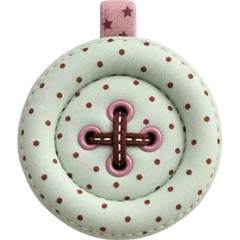
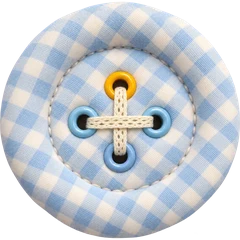
전시 보드 기타 단추: 민트 물방울 원 → 하늘색 깅엄 둥근 단추

diff --git a/CLAUDE.md b/CLAUDE.md
@@ -141,7 +141,7 @@ interviews   인터뷰    id, source(form|shop), answers(json), summary_md, stor
   - 인트로와의 순서(10-23): 인트로가 떠 있는 동안엔 뒤에서 아무것도 돌지 않는다. '인트로 다시 보기'는 전시 연출을 그 자리에서 멈추고(`stopKiosk`) 평소 지도로 되돌린다(ON/OFF 상태는 유지). 인트로가 끝나면 평소 지도 → 카메라 0.7s + 1s 뒤 전시 연출(`endIntro`). 늦게 도착하는 콜백(사이드바 접힘·커튼·지연 시작)은 차례 번호 `kioskSeq` 로 막는다.
   - 모양·톤·연출·png 자리는 시안 `MORE_exhibition_dynamic_v2.html` 그대로(사용자 결정, 낮/밤 구분 없음 — 바다 #7793b1 + 리넨, 섬 덩어리는 시안의 sine 블롭). **길만 실제 길**: 재단선 안의 `roads.json`(a·b 큰 길 = 굵은 띠 + 양 가장자리 홈질, c 골목 = 흰 띠만(10-23 점선 뺌), d 생략)을 재단선 상자 → 섬 덩어리 상자(0.92)로 균일 변환해 넣는다. 그린 뒤 정돈(10-23): `kiosk-board.json` 의 `hideRoads`(캔버스 단위 타원·다각형) 안 골목과 `hideMain` 안 큰 길은 빼고(잘린 큰 길 끝은 늘리지 않고, 그 자리에 붙은 60 미만 조각은 버린다), 맞닿은 토막은 한 줄로 이어 점선 박자를 맞추고, 막다른 큰 길은 섬 가장자리까지 늘려 실에 물려 끝나게, 길 홈질은 연하게(opacity .42/.38). 길 폭 큰 길 24·골목 11. 가게 단추도 실제 자리(재단선 밖 12단위까지 포함, 섬 밖이면 안쪽으로 밀어 넣음). 업종은 `stores.category`(없으면 기타) → 단추 무늬·범례 필터.
   - 좌표: 시안 캔버스 단위를 지도 좌표에 1:1 평행이동(캔버스 가운데 = 섬 가운데)으로 놓는다. `kiosk-board.json` 의 props·sky·waves·titleAt·chiefAt 는 전부 캔버스 단위.
-  - 켜진 동안 `html.kb-on`: 섬 위 원래 층(땅·길·장식·점·랜드마크·밤 층·하늘)은 opacity 0, `#map` 바탕은 바다색. 주민은 `kb-rest` 뒤에만 보이고(`visibility`), 보드 위의 실제 길 그래프(`buildRoadGraph(board.roadPath(), board.land, { minLen: 40 })`)로 갈아탄다. 스프라이트 배율은 `scene.actorMul`(보드 위 1.3). 단추는 시안의 0.7배(`BTN_K`), 커피·음식점·주점·기타는 사용자 제공 천 단추 그림(`public/board/btn-*.webp`, `BTN_IMG` — 갈색 별 원·분홍 하트·노란 펠트 원·민트 물방울 원), 봉제·슈퍼는 예전 무늬 단추, 단추 밑 번호는 없다, 가게 이름은 이장님 이름표와 같은 글꼴(`--font-ui` 700, 각진 외곽선), 집·나무 높이는 시안의 0.75배(kiosk-board.json). 이장님·고양이는 `chiefTo(true)` 로 시안 자리(`chiefAt`)에.
+  - 켜진 동안 `html.kb-on`: 섬 위 원래 층(땅·길·장식·점·랜드마크·밤 층·하늘)은 opacity 0, `#map` 바탕은 바다색. 주민은 `kb-rest` 뒤에만 보이고(`visibility`), 보드 위의 실제 길 그래프(`buildRoadGraph(board.roadPath(), board.land, { minLen: 40 })`)로 갈아탄다. 스프라이트 배율은 `scene.actorMul`(보드 위 1.3). 단추는 시안의 0.7배(`BTN_K`), 커피·음식점·주점·기타는 사용자 제공 천 단추 그림(`public/board/btn-*.webp`, `BTN_IMG` — 갈색 별 원·분홍 하트·노란 펠트 원·하늘색 깅엄 원), 봉제·슈퍼는 예전 무늬 단추, 단추 밑 번호는 없다, 가게 이름은 이장님 이름표와 같은 글꼴(`--font-ui` 700, 각진 외곽선), 집·나무 높이는 시안의 0.75배(kiosk-board.json). 이장님·고양이는 `chiefTo(true)` 로 시안 자리(`chiefAt`)에.
   - 리넨은 `public/board/linen.webp` 를 캔버스에 타일링해 큰 `<image>` 하나로(SVG `<pattern>` 타일은 줌아웃에서 줄무늬). 아플리케·하늘 그림은 `public/board/*.webp`(사용자 제공 png).
   - `?board=1` 로 연출 없이 다 보이는 상태로 시작(개발·확인용). `?patch_slow=N` 은 연출 N배 느리게.
   - 알려진 흠: 가게 이름표가 5길 안에서 겹친다(실제 자리가 촘촘함). 제목이 그 근처 단추 이름표와 겹칠 수 있다.
